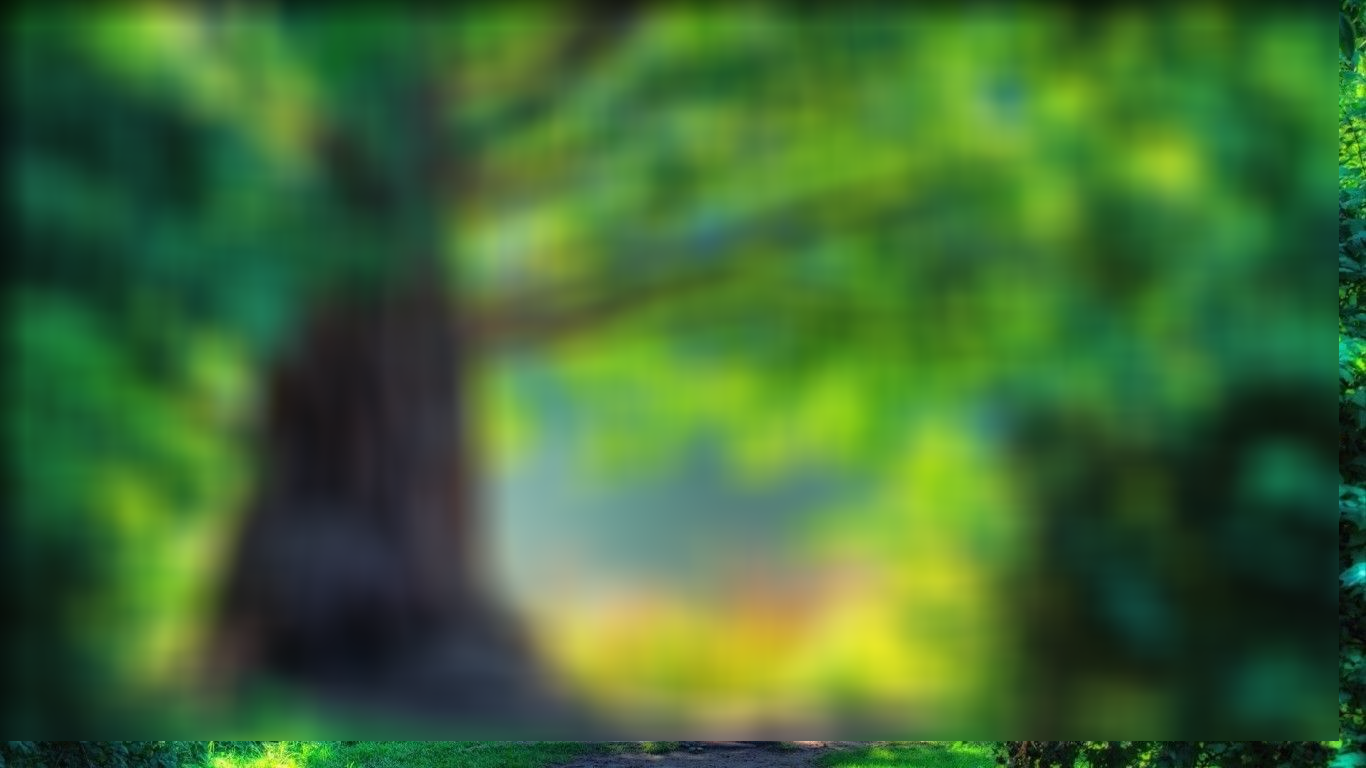
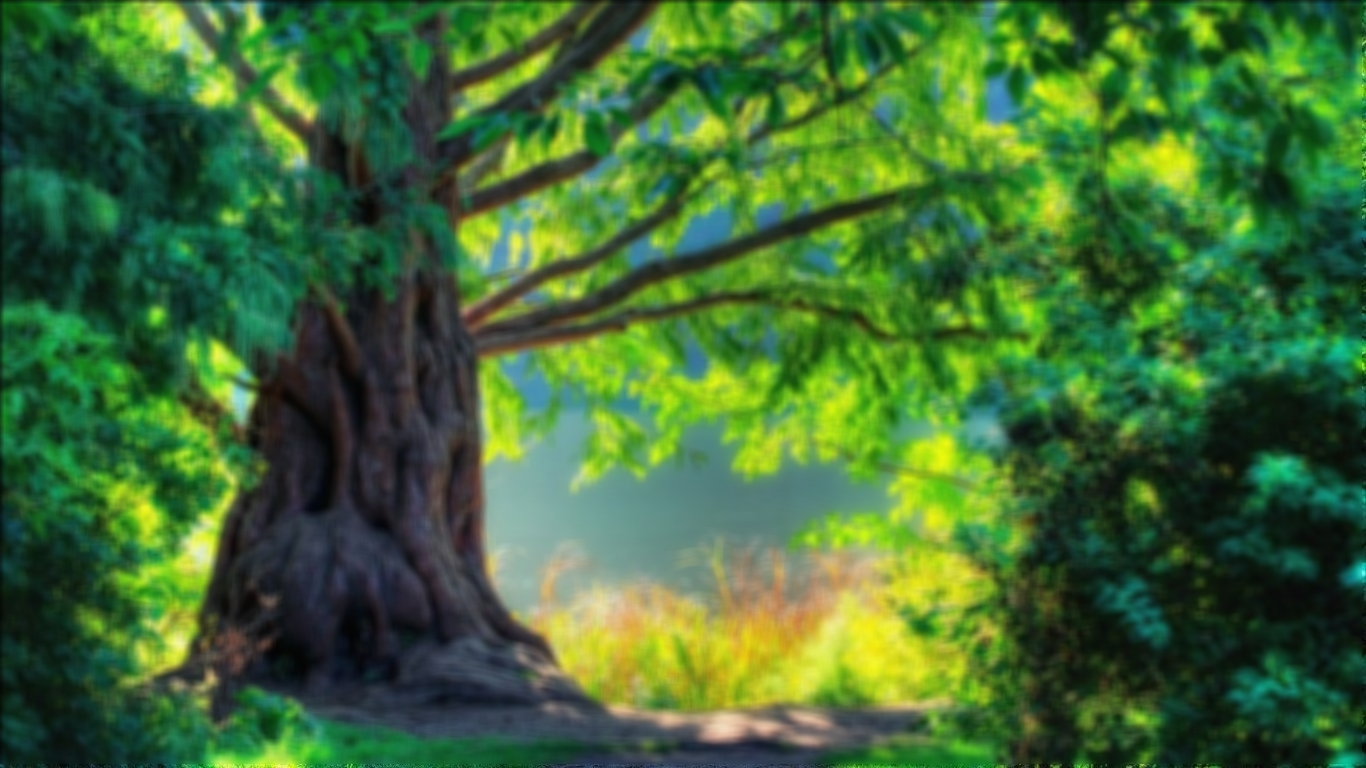
Implementação do filtro separável

diff --git a/02_blur/blur.py b/02_blur/blur.py
@@ -47,8 +47,33 @@ def chadBlur(img, fullw):
 
     return img_return
 
-def blurSeparavel(img, halfWidth):
-    pass
+def blurSeparavel(img, fullW):
+    halfW = fullW // 2
+
+    img_horizontal = np.copy(img.reshape((img.shape[0], img.shape[1], 3)))
+
+    for y in range(0, len(img)):
+        for x in range(halfW, len(img[0])-halfW):
+            # para cada pixel
+            soma = 0
+            for i in range(-halfW, halfW+1):
+                soma += img[y, x+i]
+            media = soma / fullW
+            img_horizontal[y, x] = media
+        # if y % 10 == 0:
+        cv2.imshow('Blur', img_horizontal)
+
+    img_return = np.copy(img_horizontal)
+
+    return img_horizontal
+    for y in range(halfW, len(img)-halfW):
+        for x in range(halfW, len(img[0])-halfW):
+            soma = 0
+            for i in range(-halfW, halfW + 1):
+                soma += img_horizontal[y+i, x]
+            img_return[y, x] = soma / fullW
+    
+    return img_return
 
 def blurIntegral(img, fullW):
     halfW = fullW // 2
@@ -133,7 +158,7 @@ def main ():
     ingenuo = 1
     separavel = 2
     integral = 3
-    algoritmo = integral
+    algoritmo = separavel
 
     # Leitura do arquivo-----------------------------------
     # img = cv2.imread(INPUT_IMAGE, cv2.IMREAD_GRAYSCALE)
@@ -155,12 +180,12 @@ def main ():
         print ('Tempo ingênuo: %f' % (timeit.default_timer () - start_time))
     elif algoritmo == separavel:
         start_time = timeit.default_timer ()
-        img_output = blurSeparavel(img, 9)
+        img_output = blurSeparavel(img, 251)
         cv2.imwrite('04 - blurSeparavel.png', img_output*255)
         print ('Tempo separável: %f' % (timeit.default_timer () - start_time))
     elif algoritmo == integral:
         start_time = timeit.default_timer ()
-        img_output = blurIntegral(img, 55) 
+        img_output = blurIntegral(img, 9) 
         cv2.imwrite('04 - blurIntegral.png', img_output*255)
         print ('Tempo integral: %f' % (timeit.default_timer () - start_time))
 
